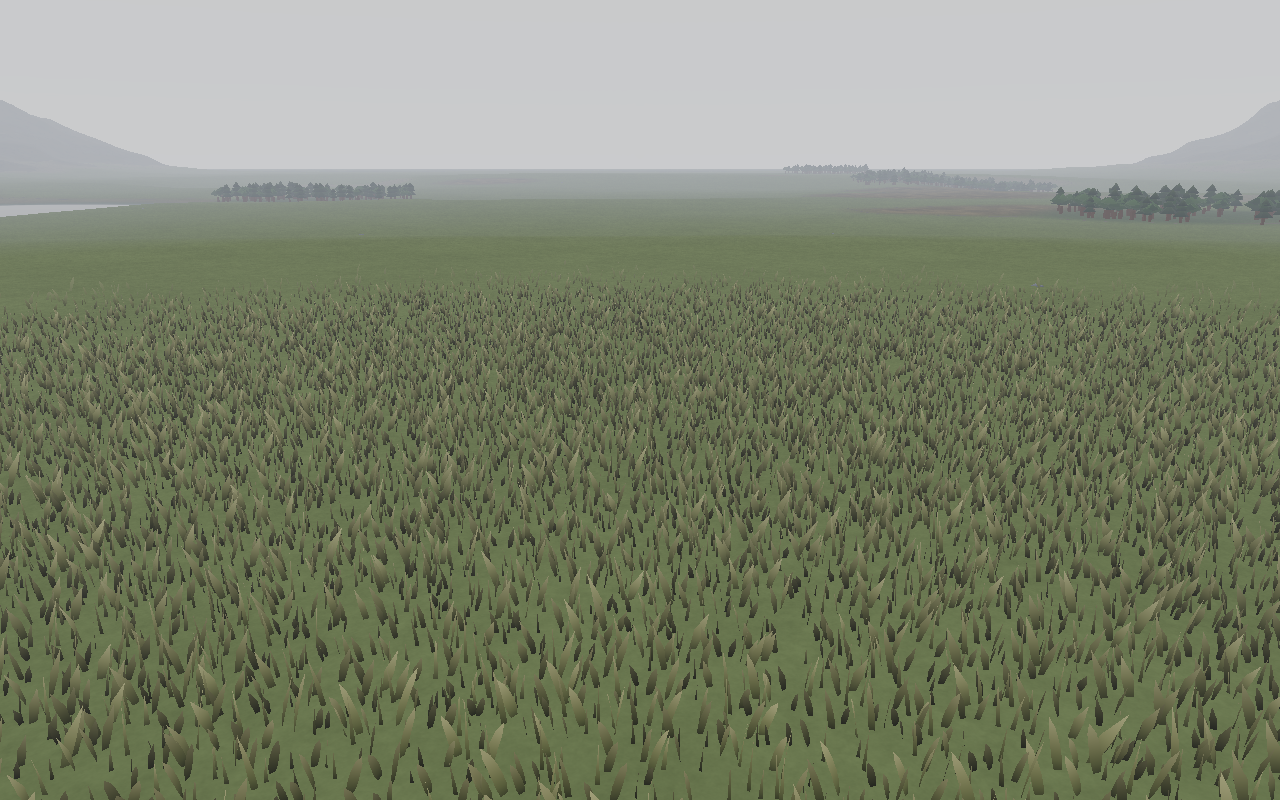
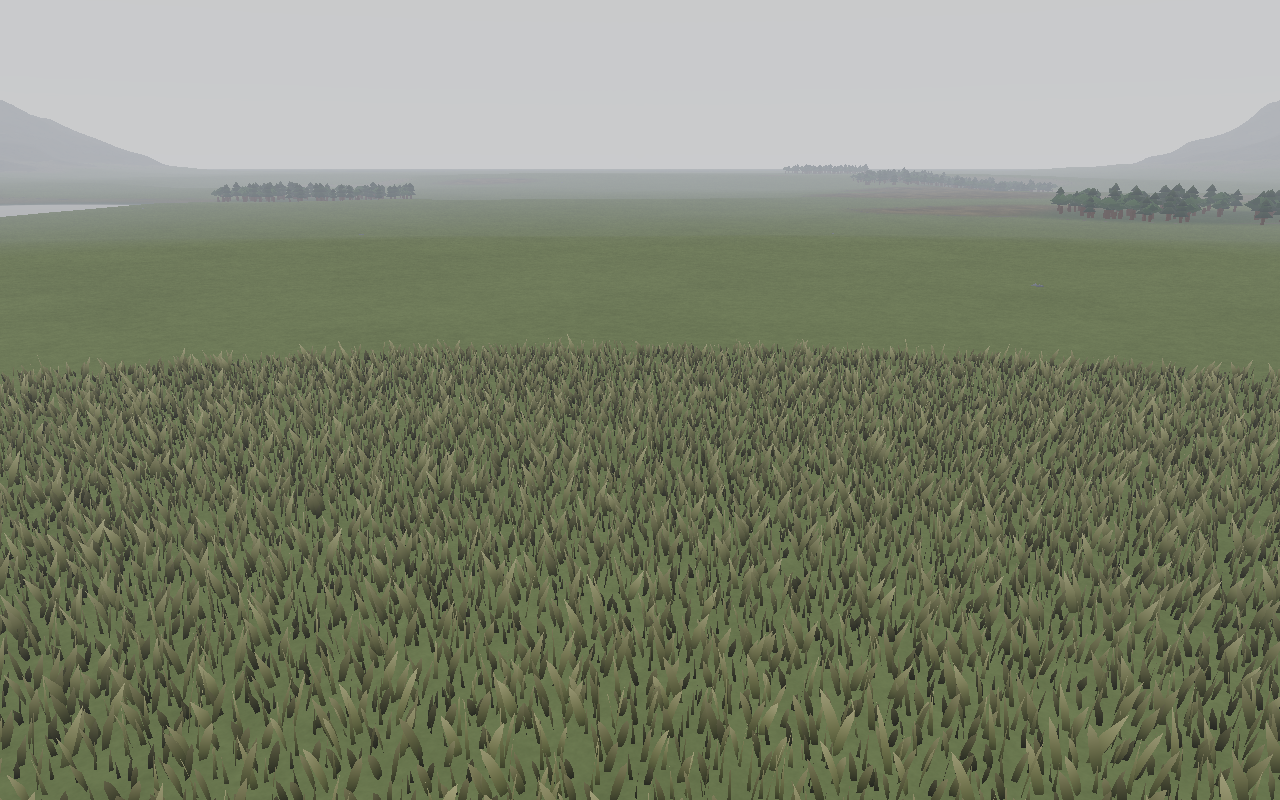
camera: sight-line clip guard; camera-zoom scene re-anchored to the tuned rig
The 'green sky' when zooming into a slope was the near plane clipping
intervening terrain - the eye only cleared its own ground column. The
sight line now marches interior samples with a slim margin, lifting only
on real obstructions so ordinary relief never nudges framing. The
battle-camera-zoom scene re-anchors to David's rig tune (2a7ede13): the
0-3 zoom band deliberately clamps to one camera, so the mid stop samples
zoom 5 and pitch/fov allow the designed plateau.

diff --git a/web/src/shared/camera.ts b/web/src/shared/camera.ts
@@ -135,12 +135,24 @@ export class Camera {
       near: NEAR_PLANE,
     });
     if (this.groundHeight) {
-      // Eye clearance: the eye's ground column can be HIGHER than the look
-      // target's (looking up-slope from a valley). Raising target.z raises
-      // the eye 1:1, so one closed-form lift keeps the eye above terrain.
+      // Eye clearance along the WHOLE sight line, not just the eye's ground
+      // column: zooming toward a slope can put intervening higher ground
+      // between eye and target - the near plane clips into the hill and the
+      // frame floods terrain-green ("green sky"). Interior samples only
+      // guard against actual clipping (a slim margin), so ordinary relief
+      // under the sight line never nudges the framing. Raising target.z
+      // raises the eye 1:1, so one closed-form lift covers it.
       const eye = eyePosition(mk(tz));
-      const need = this.groundHeight(eye[0], eye[1]) + EYE_CLEARANCE - eye[2];
-      if (need > 0) tz += need;
+      let worst = this.groundHeight(eye[0], eye[1]) + EYE_CLEARANCE - eye[2];
+      const RAY_MARGIN = 1.5;
+      for (let i = 1; i <= 4; i++) {
+        const t = i / 6;
+        const sx = eye[0] + (tx - eye[0]) * t;
+        const sy = eye[1] + (ty - eye[1]) * t;
+        const rayZ = eye[2] + (tz - eye[2]) * t;
+        worst = Math.max(worst, (this.groundHeight(sx, sy) + RAY_MARGIN - rayZ) * (1 - t));
+      }
+      if (worst > 0) tz += worst;
     }
     return mk(tz);
   }
